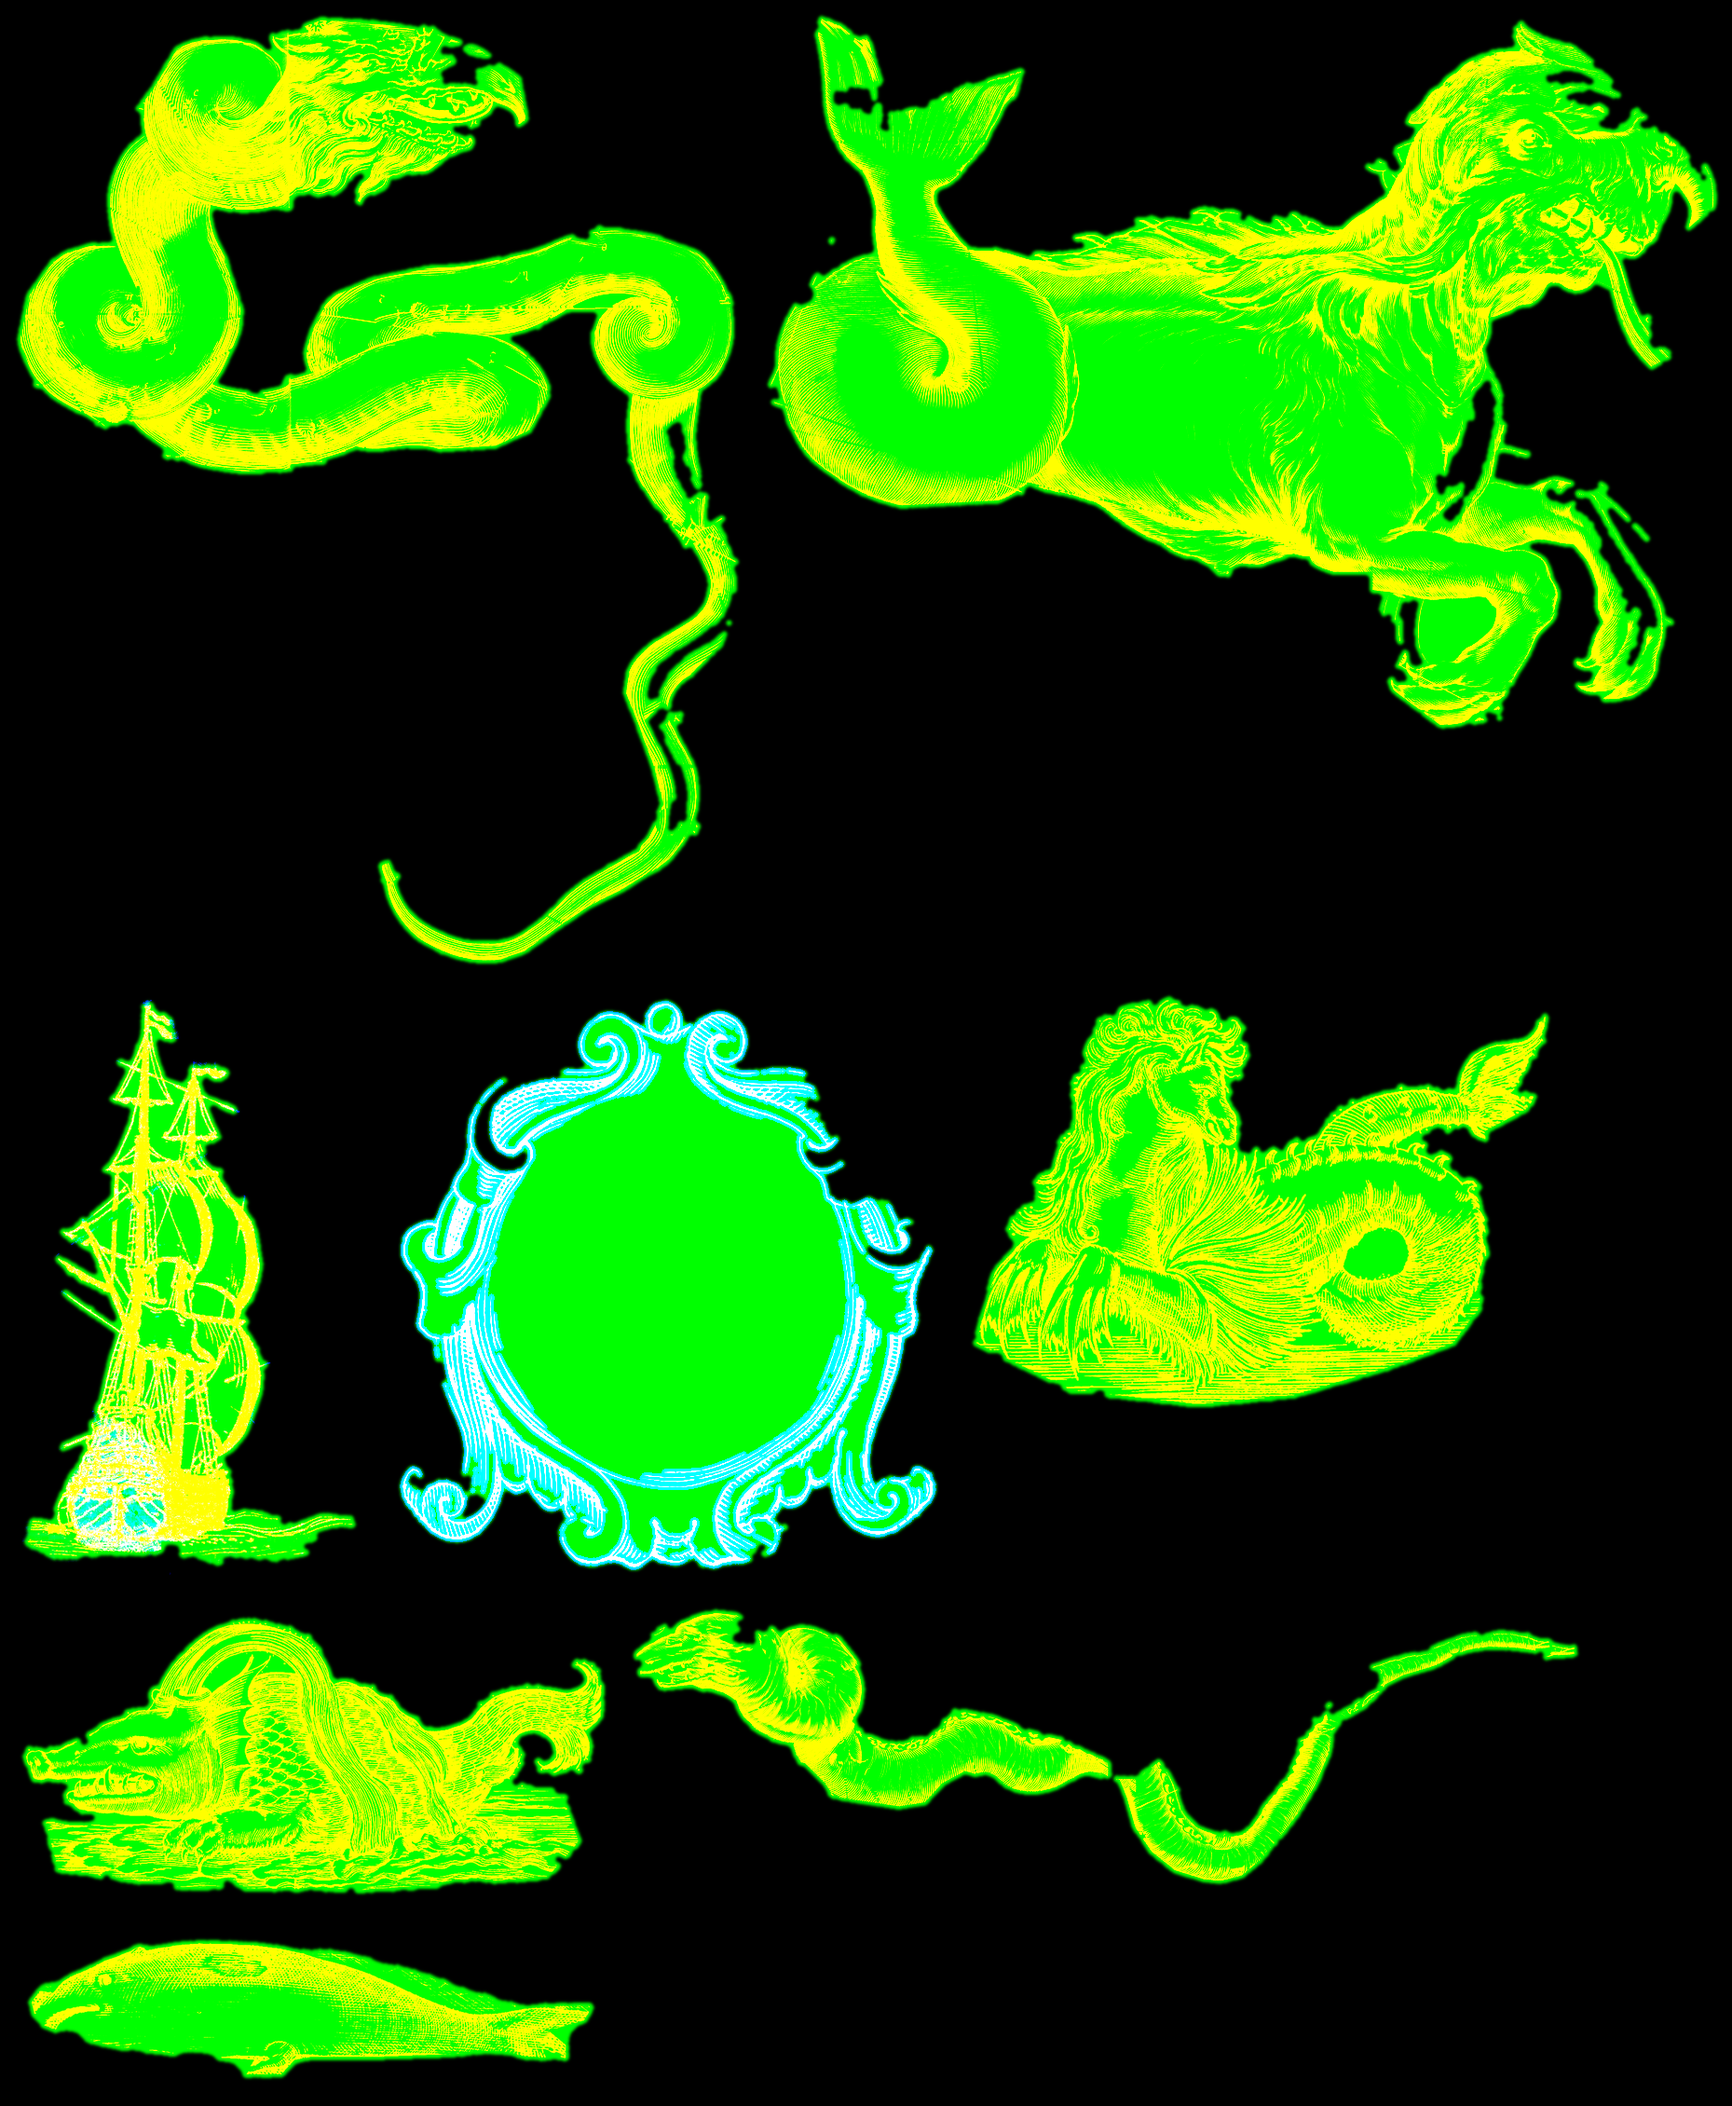
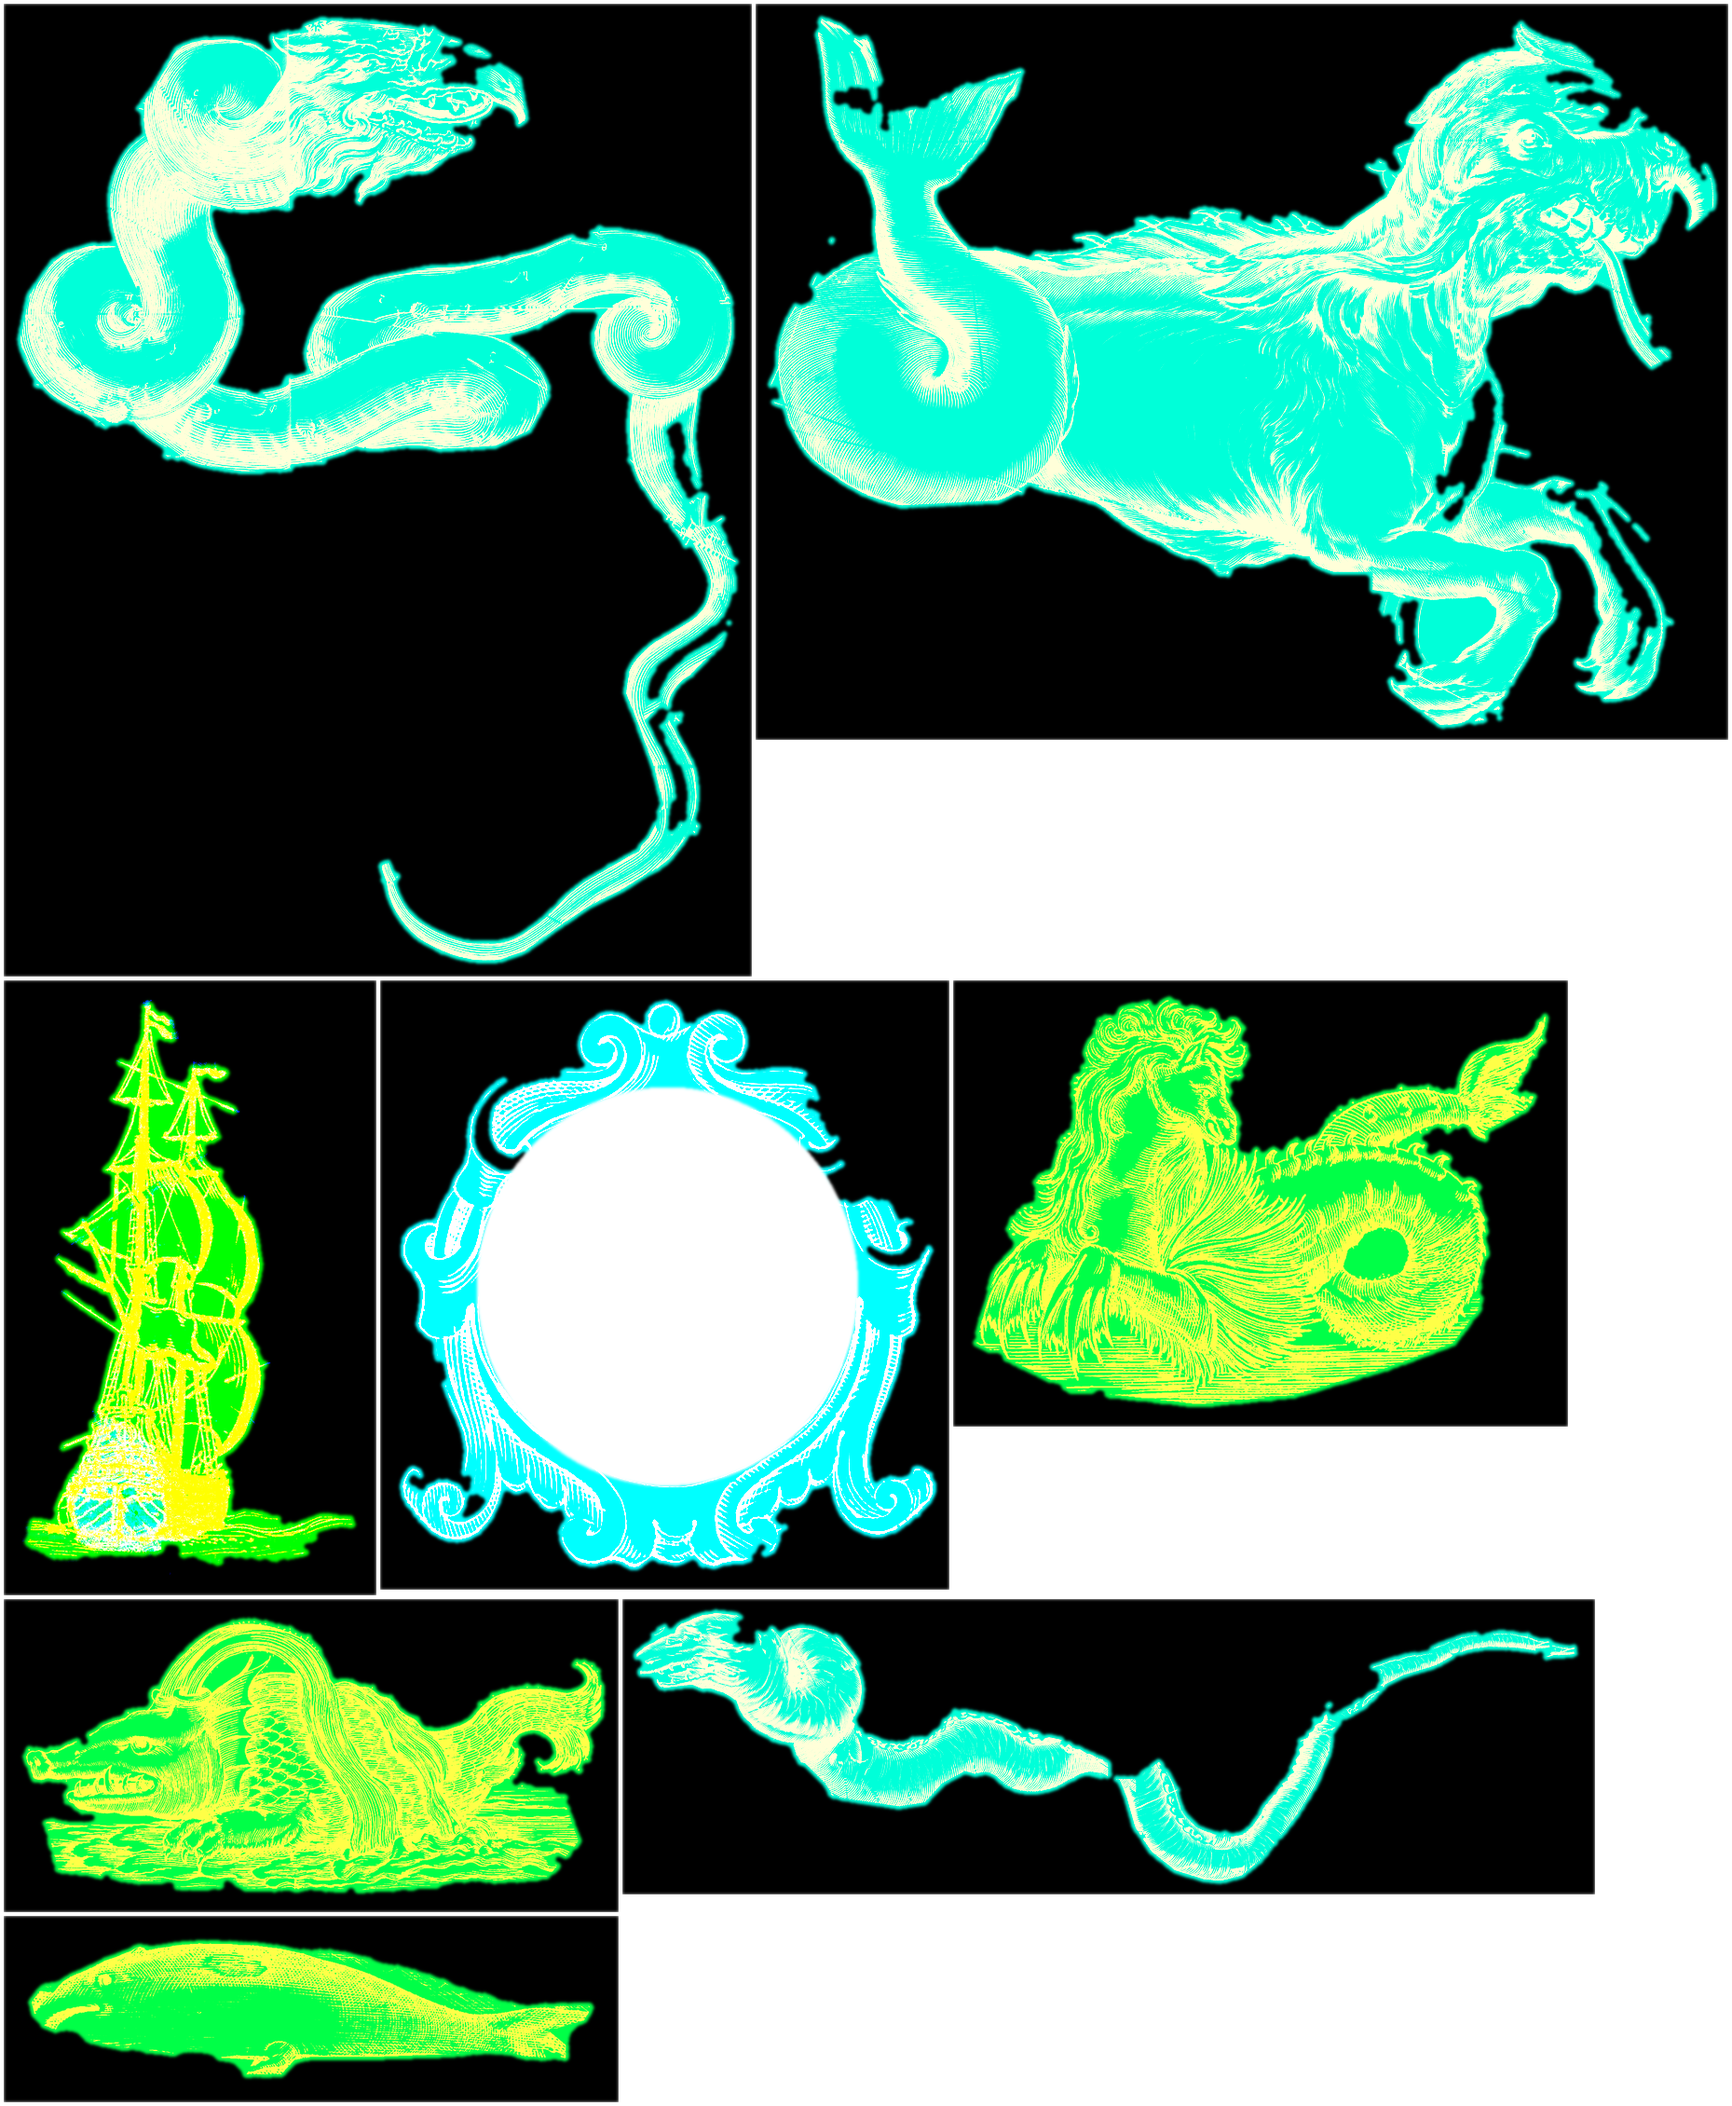
Antique look: hand-colouring laid flat inside each engraving's outline and pooling unevenly (the cartouche's frame in gamboge with a rose-madder moulding, a new pigment; constellation figures and sea beasts in their own pigment; a gamboge border band), and a hierarchy of lines: an orbit's 5 px addit

diff --git a/tools/antique/packOrnaments.ts b/tools/antique/packOrnaments.ts
@@ -3,8 +3,9 @@
  * packOrnaments (`npm run pack-ornaments`) — packs the antique look's engraved
  * ornaments into `public/antique/ornaments.png` and generates its layout module.
  * Channels: R ink density, G fill (the solid silhouette the plate is cleared to
- * paper under), B wash (the alpha of `<id>.colour.png` when a sprite has one;
- * the cartouche's frame).
+ * paper under), B wash (the alpha of `<id>.colour.png` when a sprite has one,
+ * else a flat share of the fill; the cartouche's frame, never its field), A the
+ * share of the row's main pigment over its accent (the cartouche's moulding ring).
  * The cartouche's interior is left blank: each plate sets its own title there
  * at runtime (`buildAntiqueGlyphSheet`), so the module records the interior oval.
  * Inputs: data/antique/sprites/<id>.png (black RGB, ink in alpha), optional
@@ -52,6 +53,11 @@ const CLOSE_RADIUS_OVERRIDE_PX: Partial<Record<(typeof SPRITE_IDS)[number], numb
   whale: 24,
 };
 const FILL_GROW_PX = 3;
+/** A sea beast's and a constellation figure's flat wash, as a share of full. */
+const FILL_WASH = 0.28;
+const FIGURE_WASH = 0.85;
+/** The cartouche's moulding ring, out to this scale of its interior: the accent pigment's. */
+const RING_SCALE = 1.09;
 const FILL_BLUR_SIGMA_PX = 1.5;
 
 /**
@@ -150,24 +156,21 @@ async function buildSprite(id: (typeof SPRITE_IDS)[number]): Promise<OrnamentSpr
   const grown = dilateMaskDisc(solid, w, h, FILL_GROW_PX);
   const soft = gaussianBlurFloat32(Float32Array.from(grown), w, h, FILL_BLUR_SIGMA_PX);
   const fill = Uint8Array.from(soft, (v) => Math.round(Math.min(1, v) * 255));
+  // A colourist laid each wash flat inside the engraved outline: the whole
+  // silhouette, the cartouche's frame but never its field, where the title sits on paper.
+  const share = FIGURE_IDS.has(id) ? FIGURE_WASH : FILL_WASH;
   const wash =
     id === 'cartouche'
-      ? frameWash(ink, w, h)
+      ? fill.map((v, i) => (insideOval(i % w, Math.floor(i / w), w, h, 1) ? 0 : v))
       : existsSync(spritePath(`${id}.colour`))
         ? (await loadInk(`${id}.colour`, undefined, side)).data
-        : new Uint8Array(w * h);
-  return { ink, fill, wash, w, h };
-}
-
-/**
- * The cartouche's wash: its strapwork, grown 3 px, and never the field inside,
- * so the colourist's tint sits on the frame and the title's ground stays paper.
- */
-function frameWash(ink: Uint8Array, w: number, h: number): Uint8Array {
-  const frame = ink.map((v) => (v > INK_THRESHOLD ? 1 : 0));
-  for (let y = 0; y < h; y++)
-    for (let x = 0; x < w; x++) if (insideOval(x, y, w, h, 1)) frame[y * w + x] = 0;
-  return dilateMaskDisc(frame, w, h, FILL_GROW_PX).map((v) => v * 255);
+        : fill.map((v) => Math.round(v * share));
+  const accent = new Uint8Array(w * h).fill(255);
+  if (id === 'cartouche')
+    for (let y = 0; y < h; y++)
+      for (let x = 0; x < w; x++) if (insideOval(x, y, w, h, RING_SCALE)) accent[y * w + x] = 0;
+  const softAccent = gaussianBlurFloat32(Float32Array.from(accent), w, h, FILL_BLUR_SIGMA_PX);
+  return { ink, fill, wash, accent: Uint8Array.from(softAccent, Math.round), w, h };
 }
 
 /** The narrowest-square packing under the size cap. */
@@ -187,19 +190,20 @@ function packSquarest(sprites: readonly OrnamentSprite[]): ReturnType<typeof she
 async function main(): Promise<void> {
   const sprites = await Promise.all(SPRITE_IDS.map(buildSprite));
   const { width, height, rects } = packSquarest(sprites);
-  // RGB only: a PNG without alpha decodes to A = 1, which is the sheet's contract.
-  const atlas = new Uint8Array(width * height * 3);
+  // Alpha is data (the accent share), decoded unpremultiplied (`fetchAntiqueBitmap`).
+  const atlas = new Uint8Array(width * height * 4).fill(255);
   sprites.forEach((s, k) => {
     const { x, y } = rects[k]!;
     for (let j = 0; j < s.h; j++)
       for (let i = 0; i < s.w; i++) {
-        const o = ((y + j) * width + x + i) * 3;
+        const o = ((y + j) * width + x + i) * 4;
         atlas[o] = s.ink[j * s.w + i]!;
         atlas[o + 1] = s.fill[j * s.w + i]!;
         atlas[o + 2] = s.wash[j * s.w + i]!;
+        atlas[o + 3] = s.accent[j * s.w + i]!;
       }
   });
-  await sharp(atlas, { raw: { width, height, channels: 3 } })
+  await sharp(atlas, { raw: { width, height, channels: 4 } })
     .png({ compressionLevel: 9 })
     .toFile(`${ROOT}${OUT_PNG}`);
 

diff --git a/src/data/rendering/antiqueOrnaments.ts b/src/data/rendering/antiqueOrnaments.ts
@@ -6,7 +6,8 @@
  * Avoidance, the wedge behind the galactic plane the surveys cannot see into:
  * the one honest terra incognita on this map.
  * Pigment indices are `pigments.wesl`'s: 0 verdigris, 1 sap green, 2 gamboge,
- * 5 smalt, 6 yellow ochre.
+ * 5 smalt, 6 yellow ochre, 7 rose madder. Each engraving is washed flat inside
+ * its outline, as Cellarius' colourists washed his figures' robes.
  */
 
 import type { AntiqueOrnament } from '../../@types/rendering/AntiqueOrnament';
@@ -25,6 +26,7 @@ const beast = (
   regime,
   facesNorth: true,
   pigment,
+  accent: pigment,
   opacity: 1,
   clearsBeneath: false,
   mirrored,
@@ -50,6 +52,7 @@ export const ANTIQUE_ORNAMENTS: readonly AntiqueOrnament[] = [
     regime: 'always',
     facesNorth: false,
     pigment: 2,
+    accent: 7,
     opacity: 1,
     clearsBeneath: true,
     mirrored: false,

diff --git a/tests/services/gpu/shaders/antiqueLookRecords.parity.test.ts b/tests/services/gpu/shaders/antiqueLookRecords.parity.test.ts
@@ -179,6 +179,7 @@ describe('antique look records ↔ WGSL structs', () => {
         opacity: 0,
         clearsBeneath: false,
         pigment: 0,
+        accent: 0,
         rect: [0, 0, 0, 0],
         lettering: false,
       },
@@ -189,6 +190,7 @@ describe('antique look records ↔ WGSL structs', () => {
         opacity: 2005,
         clearsBeneath: true,
         pigment: 2006,
+        accent: 2011,
         rect: [2007, 2008, 2009, 2010],
         lettering: true,
       },
@@ -202,6 +204,7 @@ describe('antique look records ↔ WGSL structs', () => {
       opacity: 2005,
       rect: 2007,
       pigment: 2006,
+      accent: 2011,
     };
     for (const [member, value] of Object.entries(sentinel))
       expect(offsetOf(packed, value), member).toBe(second + row.offsets.get(member)!);

diff --git a/src/utils/gpu/antiqueLook/placeAntiqueOrnaments.ts b/src/utils/gpu/antiqueLook/placeAntiqueOrnaments.ts
@@ -160,6 +160,7 @@ export function placeAntiqueOrnaments(input: {
       opacity,
       clearsBeneath: row.clearsBeneath,
       pigment: row.pigment,
+      accent: row.accent,
       rect: [uv[0], uv[1], uv[2], uv[3]],
       lettering: false,
     });
@@ -176,6 +177,7 @@ export function placeAntiqueOrnaments(input: {
         opacity: opacity * input.title.weight,
         clearsBeneath: true,
         pigment: row.pigment,
+        accent: row.accent,
         rect: [...input.title.rect],
         lettering: true,
       });

diff --git a/src/@types/rendering/AntiqueOrnament.d.ts b/src/@types/rendering/AntiqueOrnament.d.ts
@@ -19,6 +19,8 @@ export type AntiqueOrnament = {
   readonly facesNorth: boolean;
   /** Index into `pigments.wesl`'s PIGMENTS for the sprite's wash channel. */
   readonly pigment: number;
+  /** The pigment where the atlas marks an accent (alpha 0): the cartouche's moulding ring. */
+  readonly accent: number;
   readonly opacity: number;
   /** Clears the plate beneath its fill to bare paper (a cartouche), or lets it show (a figure). */
   readonly clearsBeneath: boolean;

diff --git a/tools/antique/@types/OrnamentSprite.d.ts b/tools/antique/@types/OrnamentSprite.d.ts
@@ -1,8 +1,9 @@
-/** One processed ornament before packing: ink, fill and wash planes, padded, w×h px. */
+/** One processed ornament before packing: ink, fill, wash and accent planes, padded, w×h px. */
 export type OrnamentSprite = {
   readonly ink: Uint8Array;
   readonly fill: Uint8Array;
   readonly wash: Uint8Array;
+  readonly accent: Uint8Array;
   readonly w: number;
   readonly h: number;
 };

diff --git a/src/@types/rendering/AntiqueOrnamentInstance.d.ts b/src/@types/rendering/AntiqueOrnamentInstance.d.ts
@@ -14,6 +14,7 @@ export type AntiqueOrnamentInstance = {
   readonly opacity: number;
   readonly clearsBeneath: boolean;
   readonly pigment: number;
+  readonly accent: number;
   /** Rect, normalised: u0, v0, u1, v1, on the atlas or the lettering sheet. */
   readonly rect: Vec4;
   /** Drawn from the lettering sheet (a cartouche's title), not the ornament atlas. */

diff --git a/tests/utils/gpu/antiqueLook/placeAntiqueOrnaments.test.ts b/tests/utils/gpu/antiqueLook/placeAntiqueOrnaments.test.ts
@@ -46,6 +46,7 @@ function skyRow(over: Partial<AntiqueOrnament> & { lonDeg?: number }): AntiqueOr
     regime: 'always',
     facesNorth: true,
     pigment: 0,
+    accent: 0,
     opacity: 1,
     clearsBeneath: false,
     mirrored: false,

diff --git a/src/utils/gpu/antiqueLook/packAntiqueOrnaments.ts b/src/utils/gpu/antiqueLook/packAntiqueOrnaments.ts
@@ -27,6 +27,7 @@ export function packAntiqueOrnaments(
     f32.set(o.rect, at + 8);
     f32[at + 12] = o.pigment;
     f32[at + 13] = o.lettering ? 1 : 0;
+    f32[at + 14] = o.accent;
   }
   return out;
 }

diff --git a/docs/superpowers/plans/2026-11-07-antique-atlas-look.md b/docs/superpowers/plans/2026-11-07-antique-atlas-look.md
@@ -168,6 +168,9 @@ Owner ruling 2026-11-07: keep the generic galaxy engraving with these names; the
 - [x] Plate light: from orbit the real Sun's azimuth at 18° over each point's horizon; the ground keeps the real Sun (blend over 8–25 km altitude).
 - [x] The plate's Mars module cuts hachures by line-integral convolution of that noise along the fall line (12 taps each way, stopping at halos), a contour-wise second set in the deepest shade, stipple on the flats from the plain render's darkness, dotted at the ground noise's peaks; lines thin with range over eye height; a paper halo behind every nearer profile.
 - [x] The albedo marking and the generic light hatching yield to the relief on the engraved ground; the land blur runs only under an Earth record.
+- [x] Follow-up (owner rulings: ink vs light, 8 taps): the plain render's shade sets where ink goes and how much (`ground.wesl` `groundRelief`, shared with the Moon next); strokes run along the light from orbit and on gentle ground (the km mesh's facets scattered them), a steep landform up close keeps its fall line; fall lines 8 taps each way 2.25 units apart, the same reach; the albedo mask skipped inside the relief shell (no salmon paper).
+- [x] Shade-edge outlines from the plain wash and crest lines from the fall field; ink capped at half the paper.
+- [ ] Review panel to ≥ 7 (engraver, cartographer, art critic, fidelity).
 
 ### Task 20: The ruling follows the frame (owner rulings 2026-11-07: ecliptic default as Hevelius; Earth numbered from the Pico de Teide)
 **Files:** `src/services/gpu/shaders/antiqueLook/{graticule,fragment,io}.wesl`, `src/data/rendering/antiqueRulings.ts`,
@@ -225,8 +228,8 @@ Owner ruling 2026-11-07: keep the generic galaxy engraving with these names; the
 `passes/antiqueLook/antiqueTitleGlobe.ts`, `decor.wesl`, `ornaments.wesl`, `tools/antique/packOrnaments.ts`
 - [x] Per-plate cartouche titles set at runtime on the lettering sheet (the cartouche sprite baked blank): the sky, the universe, the Earth (world, continent, the Seventeen Provinces, Holland by ground scale), Moon, Mars, Jupiter and Saturn; a change passes through a blank cartouche.
 - [x] The cartouche takes the free corner from the view covers (desktop panels report rects, 4f36bc19b), shrinking into its corner when none is free; labels keep off panels.
-- [ ] Flat hand-colour washes (borders, cartouche, figures), sparing and uneven.
-- [ ] Line weights: border > ruling > orbits > hatching; hand-irregular dashes.
+- [x] Flat hand-colour washes laid inside each engraving's outline and pooling unevenly: the cartouche's frame in gamboge with a rose-madder moulding (a new pigment), figures and beasts in their row's pigment, a gamboge border band; realms stay the Earth lead's.
+- [x] Line weights: an orbit's 5 px additive stroke eroded to a hairline at 0.6 ink, a figure's line inked by coverage (the threshold cut regular dashes); graduated bands and the border ladder spaced by eye (±8% per boundary).
 
 ### Task 29: Jupiter and its Great Red Spot (owner: "make sure the Great Red Spot is nicely rendered on Jupiter")
 **Files:** `shaders/antiqueLook/bodies/jupiter.wesl`, `plateBodies.wesl` (a `spot` per record), `fragment.wesl`,
